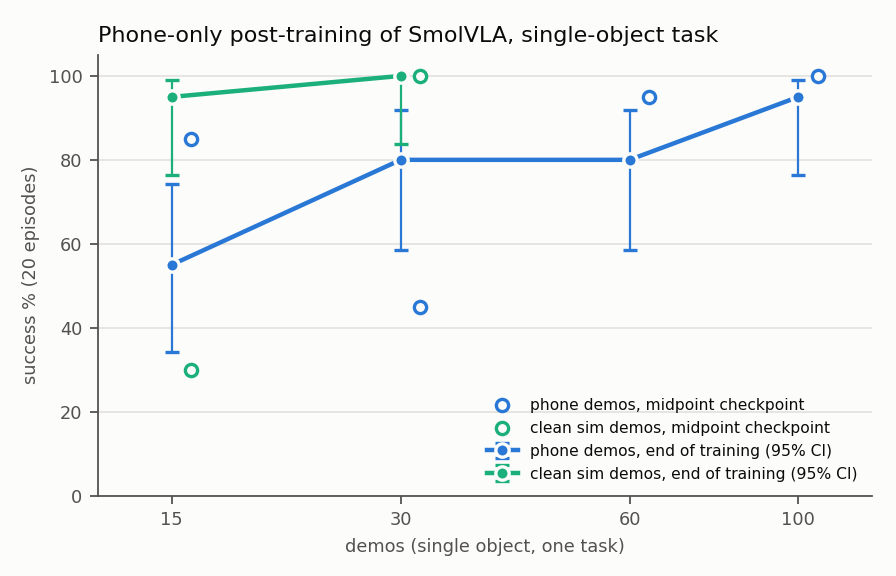
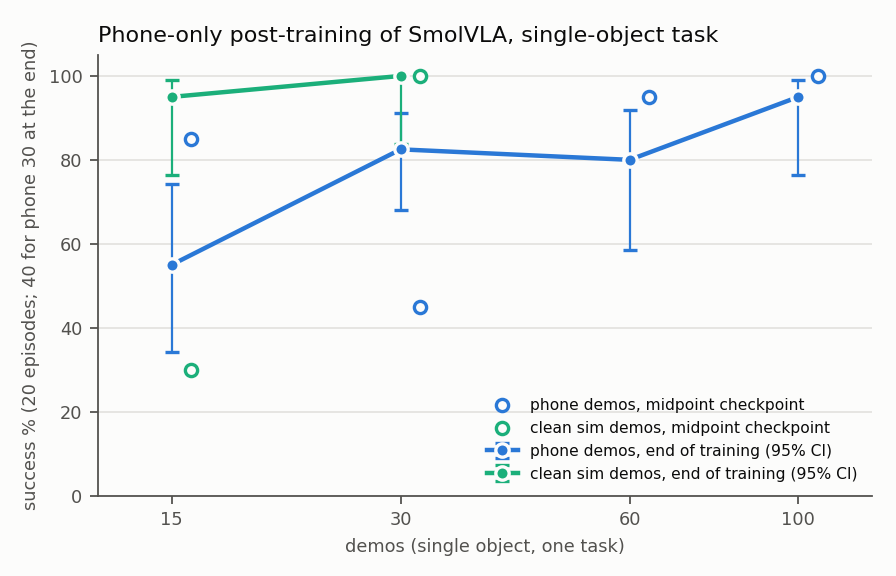
Results: VN 77.5% at 10k (milder decline), naive@30 82.5% on 40 episodes

diff --git a/scripts/make_figures.py b/scripts/make_figures.py
@@ -234,7 +234,7 @@ def single_task(out_fig="docs/figures"):
     ax.minorticks_off()
     ax.set_ylim(0, 105)
     ax.set_xlabel("demos (single object, one task)", fontsize=8, color=INK2)
-    ax.set_ylabel("success % (20 episodes)", fontsize=8, color=INK2)
+    ax.set_ylabel("success % (20 episodes; 40 for phone 30 at the end)", fontsize=8, color=INK2)
     ax.set_title("Phone-only post-training of SmolVLA, single-object task", fontsize=10, color=INK, loc="left")
     ax.legend(fontsize=7, frameon=False, loc="lower right", labelcolor=INK)
     fig.tight_layout()

diff --git a/README.md b/README.md
@@ -24,7 +24,7 @@ two; the policy never saw this layout.*
 | demos | data | midpoint checkpoint % | end of training % (95% CI) |
 |---|---|---|---|
 | 15 | phone | 85 | 55 (34–74) |
-| 30 | phone | 45 | 80 (58–92) |
+| 30 | phone | 45 | 82.5 (68–91), 40 episodes |
 | 60 | phone | 95 | 80 (58–92) |
 | 100 | phone | 100 | 95 (76–99) |
 | 15 | clean sim expert | 30 | 95 (76–99) |
@@ -60,7 +60,7 @@ At 15 demos naive training ends mid-range (55%). Methods compared on the same 15
 | naive | 95 | 85 | 50 | 55.0 (40–69) | 67.5 |
 | ambient | 75 | 90 | 85 | **92.5 (80–97)** | 85.0 |
 | quality-tagged | 85 | 90 | 80 | 87.5 (74–95) | 80.0 |
-| velocity-normalized (naive) | | | | *running* | |
+| velocity-normalized (naive) | 60 | 85 | 80 | 77.5 (62–88) | 70.0 |
 | self-improvement (1 round on ambient) | | | | 67.5 (52–80) at 13k | |
 <!-- /METHODS TABLE -->
 
@@ -69,6 +69,8 @@ At 15 demos naive training ends mid-range (55%). Methods compared on the same 15
 - **Ambient does not decline** and ends at 92.5%. That matches the best naive checkpoint without having to pick it,
   and beats the naive 5k baseline (85%) by about 8 points (within the intervals).
 - **Quality tags also hold up** (87.5% at 10k, no late decline) and end 5 points below ambient on both seed sets (within the intervals).
+- **Velocity normalization softens naive's decline** (85% at 5k → 77.5% at 10k, vs naive's 85% → 55%) but ends
+  below ambient and quality, and starts lower (60% at 2.5k).
 - **Self-improvement made the best run worse.** Ambient won the validation selection (85 vs 80 vs 67.5). Its
   rollouts succeeded 93/100 (sampling noise on), and 3k more steps on those plus the 15 clips dropped it from 92.5% to
   67.5% on the same 40 episodes (11 lost, 1 gained; exact McNemar p ≈ 0.006). The grasp point moved +0.8 cm in x,

diff --git a/NOTES.md b/NOTES.md
@@ -454,3 +454,10 @@ all runs even past Thursday noon.
   outweigh clips 6:1 and get t_min 0, noisy-sampled grasps, LR restart.
 - dcad fetch now also pulls self_improve_best.json.
 - Still running: P5_naive_15_vn, P5_naive_30 (k40 re-eval), P5_amb_30.
+
+## 2026-10-15 11:40: VN and naive@30 (k40)
+
+- P5_naive_15_vn: 60 / 85 / 80 / 77.5 (k40, CI 62–88); validation 70. Milder late decline than naive.
+- P5_naive_30 re-eval: 82.5% at 10k (k40, CI 68–91; first 20 seeds unchanged at 80%).
+- Queued after this job: evalsets.P5_fresh (held-out, seed_base 7,000,000, paired; 200 eps for naive 5k/10k, ambient
+  10k, quality 10k; 100 for the rest). Stats: scripts/paired_eval.py.
